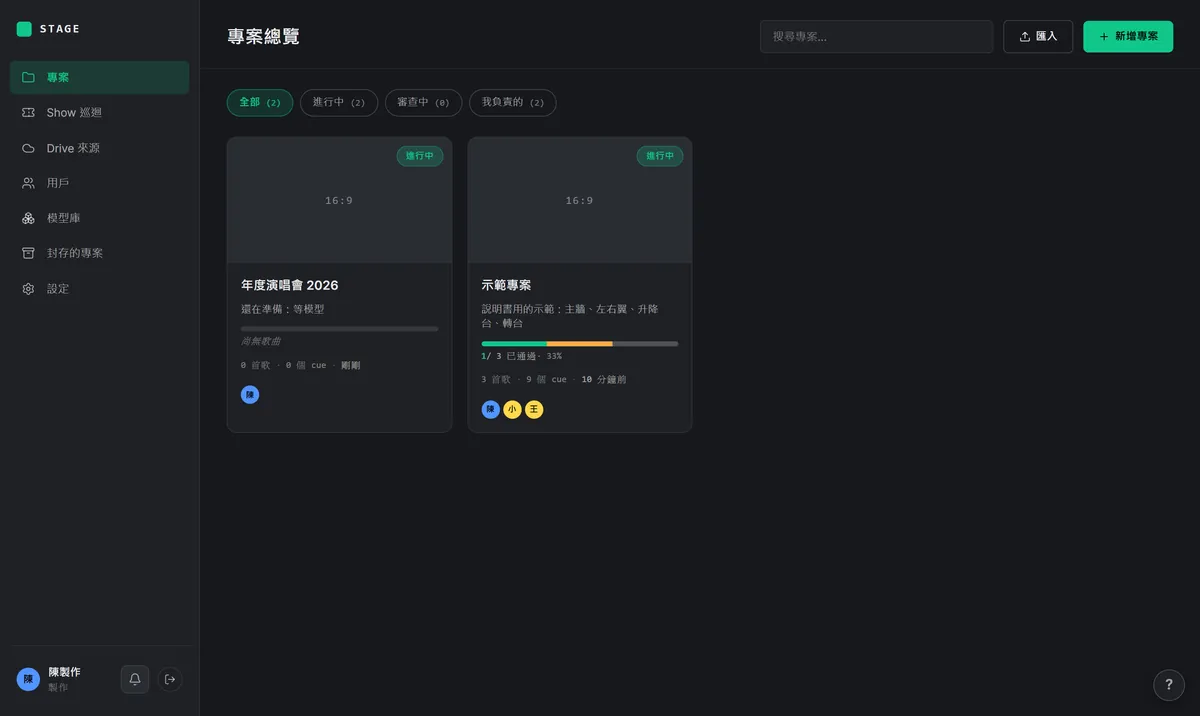
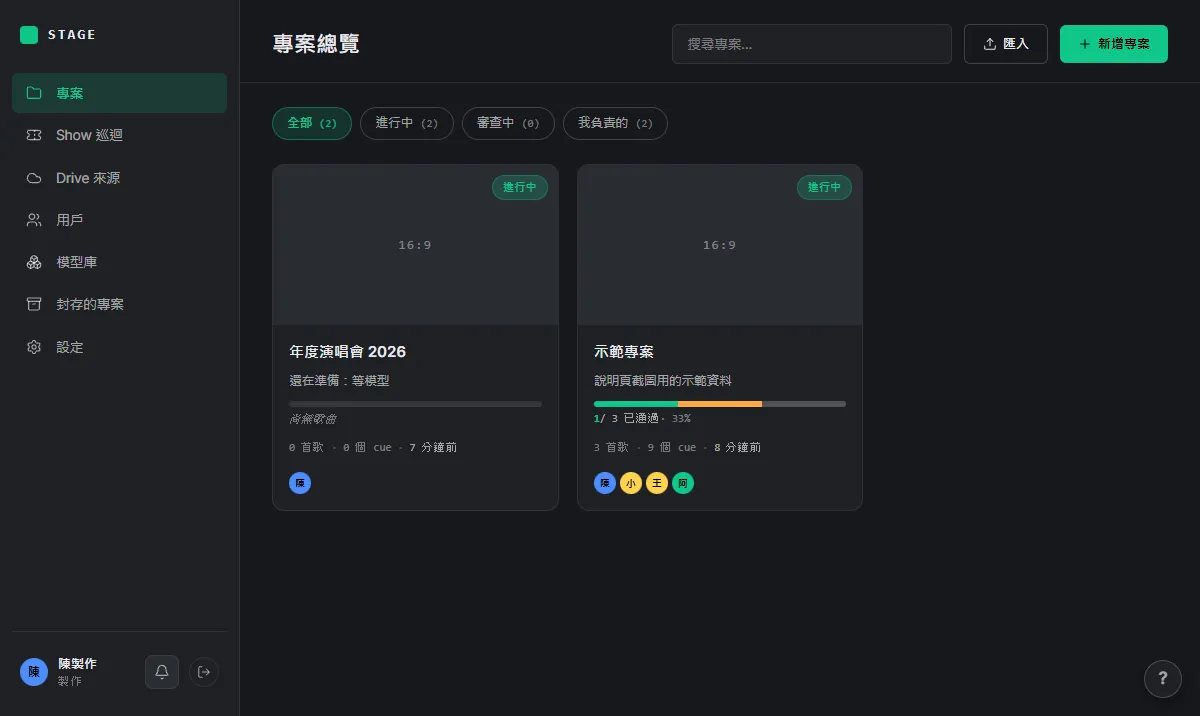
docs(說明頁): 重拍畫面已經變了的截圖（編輯頁、cue 清單、專案總覽、專案卡片選單、用戶頁、用其他身分看、成員和邀請連結、分享連結、3D 工具列選單），新補 Cue 庫（這首歌的 cue、Cue 庫分頁、還沒存的改動）、成員視窗、修改我的登入碼、LED 版型編輯器（箱體網格）、自動貼 UV（每塊各自選）的圖；圖都是本機示範資料拍的，編號框座標和圖說跟著更新

diff --git a/web/src/pages/helpFigures.ts b/web/src/pages/helpFigures.ts
@@ -63,9 +63,9 @@ export const FIGS = {
     alt: '專案總覽：專案卡片、左邊選單、新增專案按鈕',
     caption: '專案總覽：① 新增專案 ② 專案卡片（點進去編輯）③ 左邊選單：專案、用戶、封存的專案、設定…',
     boxes: [
-      { x: 90.07, y: 2.6, w: 7.92, h: 5.06, n: 1 },
-      { x: 18.68, y: 18.72, w: 19.2, h: 42.04, n: 2 },
-      { x: 0.69, y: 8.26, w: 15.21, h: 79.3, n: 3, dashed: true },
+      { x: 88.17, y: 3.26, w: 9.33, h: 5.8, n: 1 },
+      { x: 48.05, y: 22.91, w: 23.89, h: 48.48, n: 2 },
+      { x: 1, y: 10.2, w: 17.92, h: 74.58, n: 3, dashed: true },
     ],
   }),
   newProject: fig({
@@ -109,19 +109,19 @@ export const FIGS = {
     ],
   }),
   projectCardMenu: fig({
-    src: '/help/producer/project-card-menu.webp', w: 580, h: 750, width: 290,
-    alt: '專案卡片的更多動作：複製專案、匯出 JSON、編輯標籤、封存',
-    caption: '專案卡片右上角的「⋯」',
+    src: '/help/producer/project-card-menu.webp', w: 588, h: 710, width: 290,
+    alt: '專案卡片的更多動作：改名稱和說明、複製專案、匯出 JSON、編輯標籤、封存，下面是用其他身分看',
+    caption: '專案卡片右上角的「⋯」：改名稱和說明、複製專案、匯出 JSON、編輯標籤、封存，往下還有「用其他身分看」',
   }),
   editorOverview: fig({
     src: '/help/producer/editor-overview.webp', w: 1200, h: 716, width: 820,
     alt: '專案編輯頁：左邊歌曲、中間 3D 舞台、右邊 Cue / 物件狀態 / 機關 / 物件分頁',
-    caption: '編輯頁：① 歌曲 ② 3D 工具列 ③ 右邊的分頁：Cue、物件狀態、機關、物件 ④ 復原 / 重做',
+    caption: '編輯頁：① 歌曲 ② 3D 工具列 ③ 右邊的分頁：Cue、物件狀態、機關、物件 ④ 復原 / 重做。左右兩欄的邊緣可以拖寬（點兩下回到預設寬度）',
     boxes: [
-      { x: 0, y: 5.58, w: 19.44, h: 94.42, n: 1, dashed: true },
-      { x: 20.96, y: 6.51, w: 53.9, h: 5.58, n: 2 },
-      { x: 76.39, y: 5.58, w: 23.61, h: 94.42, n: 3, dashed: true },
-      { x: 29.06, y: 0.64, w: 10.33, h: 4.19, n: 4 },
+      { x: 0, y: 6.7, w: 23.33, h: 93.3, n: 1, dashed: true },
+      { x: 24.79, y: 7.82, w: 45.42, h: 6.7, n: 2 },
+      { x: 71.67, y: 6.7, w: 28.33, h: 93.3, n: 3, dashed: true },
+      { x: 32.93, y: 0.91, w: 11.9, h: 4.75, n: 4 },
     ],
   }),
   uploadModel: fig({
@@ -192,19 +192,54 @@ export const FIGS = {
   }),
   cueList: fig({
     src: '/help/producer/cue-list.webp', w: 680, h: 960, width: 340,
-    alt: 'Cue 分頁：cue 清單，第 2 個 cue 最右邊的「⋯」打開的選單',
-    caption: '① 轉場秒數（0 寫「直接切換」）② 每個 cue 最右邊的「⋯」③ 存成常用擺位 ④ 重置這個 cue',
+    alt: 'Cue 分頁：cue 清單（每個 cue 左邊有拖拉的把手），第 2 個 cue 最右邊的「⋯」打開的選單',
+    caption: '① 轉場秒數（0 寫「直接切換」）② 每個 cue 最右邊的「⋯」③ 存成常用擺位 ④ 重置這個 cue ⑤ 按住左邊的把手上下拖拉，可以改順序',
     boxes: [
-      { x: 14.41, y: 29.01, w: 16.5, h: 4.27, n: 1 },
+      { x: 21.47, y: 28.8, w: 15.9, h: 4.58, n: 1 },
       { x: 87.65, y: 25.78, w: 8.82, h: 6.25, n: 2 },
-      { x: 17.06, y: 61.04, w: 77.05, h: 8.75, n: 3 },
-      { x: 17.06, y: 77.71, w: 77.05, h: 8.75, n: 4 },
+      { x: 26.18, y: 61.98, w: 66.47, h: 6.88, n: 3 },
+      { x: 26.18, y: 78.65, w: 66.47, h: 6.88, n: 4 },
+      { x: 2.94, y: 25.36, w: 7.65, h: 7.08, n: 5 },
     ],
   }),
   cueAdd: fig({
     src: '/help/producer/cue-add.webp', w: 680, h: 596, width: 340,
     alt: '新增 cue 旁邊小箭頭的選單：空白 cue、沿用目前的 cue、從目前 3D 狀態建立、從常用擺位建立',
     caption: '「新增 cue」旁邊的小箭頭：四種新增方法',
+  }),
+  libSongCues: fig({
+    src: '/help/producer/lib-song-cues.webp', w: 680, h: 1200, width: 340,
+    alt: 'Cue 庫專案的 Cue 分頁：上面寫正在編輯哪個 cue，下面是這首歌的 cue 清單，每列有時間、編號、轉場',
+    caption: 'Cue 庫專案的「Cue」分頁：① 正在編輯哪個 cue ② 覆蓋這個 cue ③ 另存成新的 cue ④ 每一列：時間、編號、轉場（「用 Cue 庫的」或「這首歌另外設」）⑤ 從 Cue 庫加 cue',
+    boxes: [
+      { x: 2.06, y: 11.75, w: 97.65, h: 20.46, n: 1 },
+      { x: 2.94, y: 19.71, w: 31.4, h: 6, n: 2 },
+      { x: 34.34, y: 19.71, w: 38.33, h: 6, n: 3 },
+      { x: 2.06, y: 56.13, w: 96.18, h: 9.67, n: 4 },
+      { x: 6.47, y: 86.79, w: 45.97, h: 7.25, n: 5 },
+    ],
+  }),
+  libTab: fig({
+    src: '/help/producer/lib-tab.webp', w: 680, h: 1336, width: 340,
+    alt: 'Cue 庫分頁：搜尋、每個 cue 的編號、名稱、幾首歌在用、預設轉場秒數',
+    caption: '「Cue 庫」分頁：① 搜尋編號或名稱 ② 預設轉場秒數（點一下就能改）③ 每個 cue 的「⋯」（加到這首歌…）④ 另存成新的 cue',
+    boxes: [
+      { x: 12.06, y: 31.51, w: 82.06, h: 4.12, n: 1 },
+      { x: 36.31, y: 65.19, w: 16.51, h: 3.78, n: 2 },
+      { x: 84.12, y: 62.12, w: 11.76, h: 5.99, n: 3 },
+      { x: 2.94, y: 93.86, w: 38.33, h: 5.39, n: 4 },
+    ],
+  }),
+  lookDraft: fig({
+    src: '/help/producer/look-draft.webp', w: 680, h: 500, width: 340,
+    alt: '改動還沒存的時候，Cue 分頁上方的長條：正在編輯 Cue 2，還沒存的改動：1 個物件，旁邊有覆蓋、另存成新的 cue、放棄',
+    caption: '動了物件之後：① 長條寫著「還沒存的改動」② 覆蓋這個 cue ③ 另存成新的 cue ④ 放棄這些改動',
+    boxes: [
+      { x: 2.65, y: 37.3, w: 97.06, h: 8.8, n: 1 },
+      { x: 2.94, y: 47.3, w: 30.81, h: 14.4, n: 2 },
+      { x: 33.75, y: 47.3, w: 38.33, h: 14.4, n: 3 },
+      { x: 72.09, y: 47.3, w: 20.59, h: 14.4, n: 4 },
+    ],
   }),
   cueMeta: fig({
     src: '/help/producer/cue-meta.webp', w: 630, h: 596, width: 320,
@@ -231,14 +266,14 @@ export const FIGS = {
     caption: '升降台在這個 cue 升到「全開」：帶動的物件（前緣 LED、主唱）一起上去',
   }),
   ledMenu: fig({
-    src: '/help/producer/led-menu.webp', w: 1000, h: 390, width: 600,
-    alt: '3D 工具列的更多選單：LED 對位圖、LED 顯示測試圖、設定畫布大小',
-    caption: '① 工具列最右邊「⋯」② 下載對位圖 ③ LED 顯示測試圖 ④ 設定畫布大小（製作才有）',
+    src: '/help/producer/led-menu.webp', w: 2076, h: 796, width: 680,
+    alt: '3D 工具列的更多選單：LED 對位圖（下載對位圖、AE 合成腳本、位置表）、LED 顯示測試圖、設定畫布大小、AE 即時',
+    caption: '① 工具列最右邊「⋯」② 下載對位圖（旁邊還有 AE 合成腳本、位置表）③ LED 顯示測試圖 ④ 設定畫布大小（製作才有）',
     boxes: [
-      { x: 93.49, y: 4.44, w: 4.79, h: 11.6, n: 1 },
-      { x: 64.09, y: 30.89, w: 34.03, h: 11.6, n: 2 },
-      { x: 64.09, y: 63.65, w: 34.03, h: 11.6, n: 3 },
-      { x: 64.09, y: 74.57, w: 34.03, h: 11.6, n: 4 },
+      { x: 94.99, y: 3.01, w: 3.66, h: 9.03, n: 1 },
+      { x: 76.4, y: 22.62, w: 21.77, h: 8.72, n: 2 },
+      { x: 76.4, y: 54.74, w: 19.46, h: 8.72, n: 3 },
+      { x: 76.4, y: 62.77, w: 21.77, h: 8.72, n: 4 },
     ],
   }),
   ledCanvas: fig({
@@ -246,6 +281,26 @@ export const FIGS = {
     alt: 'LED 畫布大小對話框：AE 合成的寬 × 高',
     caption: '① 寫成「寬 × 高」，例：10496 × 5120',
     boxes: [{ x: 3.64, y: 30.65, w: 92.72, h: 19.96, n: 1 }],
+  }),
+  ledTemplateEditor: fig({
+    src: '/help/producer/led-template-editor.webp', w: 1440, h: 468, width: 820,
+    alt: 'LED 版型編輯器：左邊是版型畫布，右邊是螢幕清單，上面有下載模板圖、下載每塊 LED 的圖 + AE',
+    caption: '版型編輯器：① 預設箱體：畫布上一格網格 = 一片 LED 箱體 ② 把螢幕加進版型 ③ 畫布剛好包住螢幕 ④ 下載每塊 LED 的圖 + AE（zip）',
+    boxes: [
+      { x: 32.03, y: 23.4, w: 6.67, h: 13.35, n: 1 },
+      { x: 92.99, y: 41.24, w: 5.9, h: 8.97, n: 2 },
+      { x: 40.57, y: 26.82, w: 10.28, h: 9.72, n: 3 },
+      { x: 57.95, y: 1.28, w: 14.09, h: 9.72, n: 4 },
+    ],
+  }),
+  autoUvPieces: fig({
+    src: '/help/producer/auto-uv-pieces.webp', w: 1440, h: 613, width: 820,
+    alt: '自動貼 UV 的第 1 步選螢幕：每個物件一排選項，一個物件裡有好幾塊 LED 時，下面每一塊可以各自選',
+    caption: '第 1 步「選螢幕」：① 物件那一列的選項 = 一次設這個物件的全部塊 ② 一個物件裡有好幾塊 LED（例如曲線升降台的正面、左側、右側）時，每一塊可以各自選「自動貼」「保留原本 UV」「不放進畫布」；這裡左側選了不放進畫布，其他塊照常貼',
+    boxes: [
+      { x: 17.85, y: 65.33, w: 16.28, h: 5.87, n: 1 },
+      { x: 1.53, y: 72.39, w: 96.94, h: 20.92, n: 2 },
+    ],
   }),
   homeView: fig({
     src: '/help/producer/home-view.webp', w: 900, h: 714, width: 450,
@@ -263,15 +318,16 @@ export const FIGS = {
     caption: '現場模式的「設定」',
   }),
   shareLinks: fig({
-    src: '/help/producer/share-links.webp', w: 1000, h: 702, width: 560,
-    alt: '公開分享連結對話框：範圍、密碼、有效期、好讀網址、已建立的連結',
-    caption: '① 密碼（可選）② 有效期 ③ 好讀網址名稱 ④ 建立 ⑤ 已建立的連結：複製、打開、改網址、刪除',
+    src: '/help/producer/share-links.webp', w: 1520, h: 2070, width: 560,
+    alt: '公開分享連結視窗：範圍、密碼、有效期、名稱、好讀網址名稱、允許留言、浮水印、禁止下載、已建立的連結',
+    caption: '① 密碼（可選）② 有效期 ③ 好讀網址名稱 ④ 建立 ⑤ 已建立的連結：複製、打開、改網址、刪除 ⑥ 允許看的人留言、浮水印、禁止下載（看下面說明）',
     boxes: [
-      { x: 38.8, y: 30.5, w: 33.6, h: 7, n: 1 },
-      { x: 73.2, y: 30.5, w: 22.6, h: 7, n: 2 },
-      { x: 4, y: 42.5, w: 92, h: 7.5, n: 3 },
-      { x: 4.2, y: 59.8, w: 14.3, h: 6.4, n: 4 },
-      { x: 2.8, y: 79.5, w: 94.4, h: 17.5, n: 5 },
+      { x: 38.42, y: 17.49, w: 34.21, h: 3.94, n: 1 },
+      { x: 72.89, y: 17.49, w: 23.16, h: 3.94, n: 2 },
+      { x: 3.95, y: 32.83, w: 92.11, h: 3.13, n: 3 },
+      { x: 3.95, y: 63.38, w: 14.61, h: 3.48, n: 4 },
+      { x: 3.95, y: 86.76, w: 92.11, h: 11.98, n: 5 },
+      { x: 2.24, y: 14.25, w: 95.53, h: 53.86, n: 6 },
     ],
   }),
   viewAsMenu: fig({
@@ -279,46 +335,67 @@ export const FIGS = {
     alt: '編輯頁上方的「用其他身分看」：導演畫面、動畫師畫面、動畫師「小明」的畫面、客戶畫面（分享連結）',
     caption: '① 編輯頁上方的「用其他身分看」② 導演、動畫師、客戶的畫面（都開新分頁、只能看）',
     boxes: [
-      { x: 67.79, y: 1.72, w: 21.32, h: 11.25, n: 1 },
-      { x: 44.82, y: 13.13, w: 44.29, h: 68.75, n: 2, dashed: true },
+      { x: 68.5, y: 1.72, w: 21.32, h: 11.25, n: 1 },
+      { x: 46.07, y: 14.06, w: 43.21, h: 66.88, n: 2, dashed: true },
+    ],
+  }),
+  membersPanel: fig({
+    src: '/help/producer/members-panel.webp', w: 960, h: 1352, width: 440,
+    alt: '成員視窗：這個專案的製作、導演、動畫師，每個人可以改角色或移出專案，下面可以用名字找現有用戶加進來',
+    caption: '編輯頁上方的「成員」：① 改這個人在專案裡的角色 ② 移出專案 ③ 用名字找現有的用戶加進來',
+    boxes: [
+      { x: 69.38, y: 51.42, w: 16.25, h: 5.03, n: 1 },
+      { x: 86.46, y: 51.42, w: 7.08, h: 5.03, n: 2 },
+      { x: 4.17, y: 86.61, w: 91.67, h: 6.84, n: 3 },
     ],
   }),
   inviteForm: fig({
-    src: '/help/producer/invite-form.webp', w: 1000, h: 1152, width: 500,
-    alt: '邀請連結對話框：邀請誰、角色、有效期限',
-    caption: '① 對方的名字 ② 角色 ③ 有效期限 ④ 建立邀請連結',
+    src: '/help/producer/invite-form.webp', w: 960, h: 1352, width: 480,
+    alt: '成員視窗最下面的邀請連結：邀請誰、在這個專案的角色（製作、導演、動畫師）、有效期限、建立邀請連結',
+    caption: '成員視窗最下面的「邀請連結」：① 對方的名字 ② 角色：製作、導演或動畫師 ③ 有效期限 ④ 建立邀請連結',
     boxes: [
-      { x: 3.57, y: 26.55, w: 92.86, h: 7.17, n: 1 },
-      { x: 3.57, y: 38.99, w: 92.86, h: 12.15, n: 2 },
-      { x: 3.57, y: 56.41, w: 92.86, h: 6.82, n: 3 },
-      { x: 71.43, y: 68.38, w: 25, h: 6.74, n: 4 },
+      { x: 4.17, y: 14.48, w: 91.67, h: 6.84, n: 1 },
+      { x: 4.17, y: 26.35, w: 91.66, h: 13.97, n: 2 },
+      { x: 4.17, y: 45.35, w: 25.21, h: 6.84, n: 3 },
+      { x: 66.67, y: 57.11, w: 29.17, h: 6.43, n: 4 },
     ],
   }),
   inviteResult: fig({
-    src: '/help/producer/invite-result.webp', w: 1000, h: 1252, width: 500,
-    alt: '邀請連結建好了：可以直接貼到 LINE / 微信的訊息',
+    src: '/help/producer/invite-result.webp', w: 960, h: 1352, width: 480,
+    alt: '邀請連結建好了：寫好的訊息可以直接貼到 LINE / 微信，下面是還沒用的邀請連結',
     caption: '① 寫好的訊息 ② 複製訊息 ③ 還沒用的邀請連結（可以撤銷）',
     boxes: [
-      { x: 6.43, y: 18.72, w: 87.14, h: 13.69, n: 1 },
-      { x: 6.43, y: 33.42, w: 20, h: 5.92, n: 2 },
-      { x: 3.75, y: 66.65, w: 92.5, h: 20.01, n: 3 },
+      { x: 7.29, y: 15.64, w: 85.42, h: 14.5, n: 1 },
+      { x: 7.29, y: 30.88, w: 23.75, h: 6.43, n: 2 },
+      { x: 4.17, y: 65.35, w: 91.67, h: 30.21, n: 3 },
     ],
   }),
   users: fig({
-    src: '/help/producer/users.webp', w: 1200, h: 892, width: 820,
-    alt: '用戶頁：每個人的角色、登入碼、可看的專案',
-    caption: '① 邀請連結 ② 新增用戶 ③ 登入碼（只在建立時顯示，忘記了按「重設」）④ 指派專案、邀請連結、停用、刪除',
+    src: '/help/producer/users.webp', w: 1200, h: 980, width: 820,
+    alt: '用戶頁：上面搜尋名字、用專案篩選，下面每個人的角色、登入碼、可看的專案',
+    caption: '① 邀請連結 ② 新增用戶 ③ 登入碼（只在建立時顯示，忘記了按「重設」）④ 指派專案、邀請連結、停用、刪除 ⑤ 用名字搜尋、用專案篩選',
     boxes: [
-      { x: 77.92, y: 2.35, w: 9.67, h: 5.1, n: 1 },
-      { x: 88.08, y: 2.47, w: 9.5, h: 4.88, n: 2 },
-      { x: 8, y: 22.26, w: 81.81, h: 3.73, n: 3 },
-      { x: 88.56, y: 35.52, w: 7.6, h: 15.14, n: 4 },
+      { x: 78, y: 2.24, w: 9.5, h: 4.44, n: 1 },
+      { x: 88.17, y: 2.35, w: 9.33, h: 4.23, n: 2 },
+      { x: 8.08, y: 28.75, w: 81.65, h: 3.19, n: 3 },
+      { x: 88.65, y: 40.82, w: 7.44, h: 13.57, n: 4 },
+      { x: 2.33, y: 18.57, w: 45.17, h: 4.23, n: 5 },
     ],
   }),
   loginCode: fig({
     src: '/help/producer/login-code.webp', w: 900, h: 904, width: 450,
     alt: '新的登入碼：只顯示這一次，可以複製或複製訊息',
     caption: '新用戶的登入碼：只顯示這一次，「複製訊息」貼給對方',
+  }),
+  changeLoginCode: fig({
+    src: '/help/producer/change-login-code.webp', w: 960, h: 810, width: 400,
+    alt: '設定頁的「修改我的登入碼」視窗：輸入現在的登入碼，選自動產生或自己設定',
+    caption: '設定 →「修改我的登入碼」：① 輸入現在的登入碼 ② 自動產生，或自己設定一組（6～32 個字）③ 按「修改登入碼」',
+    boxes: [
+      { x: 4.17, y: 36.73, w: 91.67, h: 11.42, n: 1 },
+      { x: 4.79, y: 63.02, w: 90.42, h: 13.9, n: 2 },
+      { x: 73.54, y: 83.83, w: 22.29, h: 11.23, n: 3 },
+    ],
   }),
   systemStatus: fig({
     src: '/help/producer/system-status.webp', w: 1000, h: 330, width: 560,

diff --git a/web/src/pages/Help.tsx b/web/src/pages/Help.tsx
@@ -1231,6 +1231,11 @@ function ProducerChapter() {
 
         <Section id={A.prodCueLibrary} level={3} title="Cue 庫（cue 的編號和另存）">
           <p>Cue 庫是這個專案所有「舞台畫面」的總清單。每個 cue 有自己的編號和名稱，每首歌只是從 Cue 庫裡選 cue、設時間。只有開了 Cue 庫的專案才有，沒有開的專案照原本的方式用。</p>
+          <FigRow>
+            <F k="libSongCues" />
+            <F k="libTab" />
+            <F k="lookDraft" />
+          </FigRow>
           <ul className="help-list">
             <li><strong>編號自己打</strong>：編號是文字，可以寫「12」「3-1」「301」「2.5」，最多 16 個字，同一個專案不能重複。清單照編號的數字大小排：1、2、2.5、3、3-1、12、301。</li>
             <li><strong>每個 cue 是獨立的一份</strong>：改一個 cue 不會偷偷改到別的 cue。想要「差不多但有一點不一樣」，就另存成新的 cue。</li>
@@ -1435,6 +1440,7 @@ function ProducerChapter() {
 
       <Section id={A.prodAutoUv} title="自動貼 UV（不用在 C4D 手動展開）">
         <p>客戶的舞台模型來了，以前要在 C4D 把每一塊 LED 的 UV 手動展開、再手繪對位圖。現在在網頁裡選螢幕、填解析度，系統幫你展開 UV、排好整張畫布，存成<strong>新的模型版本</strong>；對位圖、AE 合成腳本、座標表都會跟著變成新的版面。只有製作能用，手機上請改用電腦（iPad 橫放可以）。</p>
+        <F k="autoUvPieces" />
         <ul>
           <li>編輯專案上方列按「<Ui>自動貼 UV</Ui>」（太窄會收進「<Ui>⋯</Ui>」），頁面下方展開面板，分四步。</li>
           <li><strong>1 選螢幕</strong>：每塊 LED 螢幕選一種：「<Ui>自動貼</Ui>」「<Ui>保留原本 UV</Ui>」「<Ui>不放進畫布</Ui>」（說明在這一條最後面）。支援<strong>平面</strong>（牆、地屏）、<strong>弧面</strong>（圓柱的一段，例如小半圓、彎的牆）、<strong>整圈 360 度的圓柱</strong>、<strong>沿一個方向擠出來的曲面</strong>（波浪、折角、不規則的彎：側面形狀照弧長拉直，不拉伸）和<strong>其他自由曲面</strong>（圓錐、一塊球面…）。系統會自動辨識是哪一種，弧面會寫「凸（外面看）／凹（裡面看）」和角度；每塊都顯示「<Ui>變形</Ui>」百分比（0.5% 以下綠色、5% 以下黃色「輕微拉伸」、超過紅色「會變形」）。辨識錯了，用每一列的「<Ui>類型</Ui>」下拉選單手動指定「<Ui>平面</Ui>」「<Ui>弧面</Ui>」或「<Ui>自由曲面</Ui>」（預設「<Ui>自動辨識</Ui>」）；指定的話，變形多少照實顯示。<strong>曲面（波浪、折角、自由曲面）選「<Ui>自動貼</Ui>」就是照形狀展開</strong>：沿直線擠出的（像 LED_Sky 那種波浪）展開後 0 變形，預設就是自動貼；真的彎得不能攤平的（馬鞍面、一塊球面）會有拉伸，變形超過 5%（紅色）時預設是保留原本 UV，由你決定要不要改選「<Ui>自動貼</Ui>」。整個封閉的球、有破洞的網格、面的方向不一致的，攤不平，會寫出原因和「硬貼會變形約 N%」，並<strong>保留原本的 UV</strong>。已經在「版型」裡手動切成幾塊的先不處理。<strong>整圈 360 度的圓柱</strong>畫面一定要在某個地方切開才能攤平：接縫預設在<strong>背對觀眾的那一側</strong>（舞台後方，觀眾看不到），那一列多一個「<Ui>接縫位置</Ui>」，可以往右 15°、往左 15°、直接填角度（往觀眾的右手邊為正）或按「<Ui>回到背面</Ui>」；接縫會貼到最近的一排頂點上，所以實際角度會寫在旁邊，接縫上的頂點會自動複製成兩個（形狀一模一樣，只有 UV 差一整圈）。選「<Ui>保留原本 UV</Ui>」的、攤不平的，會<strong>保留原本的 UV，整片搬到新位置</strong>（大小、方向、每個點的對應都不變，只是畫布重排了）。一個物件裡有好幾片分開的螢幕，每一片各自當一塊、分開排。<strong>選「<Ui>不放進畫布</Ui>」的螢幕（例如動畫師不會做內容的提詞 LED）完全不進這次的排版</strong>：不算進畫布大小，對位圖、AE 合成腳本、座標表、「舊版面」都沒有它。套用的時候它的<strong>類型會從「LED 面板」改成「其他」</strong>（變成一般物件，不再有影片），那一列和套用頁都會寫出來。要恢復：到「<Ui>物件</Ui>」分頁把類型改回「LED 面板」，再重新自動貼 UV；在「<Ui>歷史版本</Ui>」換回套用前的舊版，類型也會一起改回 LED 面板。</li>
@@ -1470,6 +1476,7 @@ function ProducerChapter() {
           <li>按「<Ui>畫布剛好包住螢幕</Ui>」，畫布寬高就會是動畫師要輸出的影片大小，按「<Ui>儲存</Ui>」。</li>
           <li>歌單上每首歌多一個「<Ui>LED 版型</Ui>」下拉選單（至少有一個版型才會出現），選這首歌要用哪個；沒選 =「<Ui>全部</Ui>」（整張畫布，跟以前一樣）。</li>
         </ol>
+        <F k="ledTemplateEditor" />
         <ul className="help-list">
           <li><strong>3D 上的測試圖</strong>：版型編輯器開著的時候，3D 的 LED 顯示這個版型的測試圖：每塊螢幕一個不一樣的顏色，寫著名字、真實點數、一支指著螢幕上方的箭頭、像素格，左上角有個小三角形（鏡像了看得出來）。放錯位置、轉錯方向一眼就看得出來；轉過 90° 的螢幕，字在 3D 上仍然是正的。測試圖只在編輯版型時出現，關掉編輯器就回到原本的畫面。</li>
           <li><strong>框裡的對位圖內容</strong>：版型畫布上每塊螢幕的框裡，預設會畫出這塊螢幕在整張畫布上的測試圖（名字、位置大小、格線、彩條），照你設的轉動、翻轉和縮放擺進來，跟貼回 3D 之後那塊 LED 上看到的一樣，所以排的時候就看得出方向對不對。不想看就按畫布上方的「<Ui>對位圖內容</Ui>」關掉。</li>
@@ -1567,6 +1574,7 @@ function ProducerChapter() {
           <li>這個專案的<strong>製作</strong>可以編輯這個專案（模型、歌單、cue、機關、版型、分享），也可以管理它的成員；看不到別的專案，也不能管全站用戶、改 3D 檢視設定和 Drive 來源、封存或複製專案。想讓專案經理幫忙調整專案，把他加成這個專案的製作就可以。</li>
           <li>全站的用戶頁可以用名字搜尋，也可以選一個專案只看那個專案的人。</li>
         </ul>
+        <F k="membersPanel" />
         <ol className="help-steps">
           <li>編輯頁上方按「<Ui>成員</Ui>」，往下找「邀請連結」（或左邊「<Ui>用戶</Ui>」→「<Ui>邀請連結</Ui>」，可以選專案）。</li>
           <li><strong>邀請誰</strong>：「<Ui>新的人</Ui>」寫名字；「<Ui>已經有帳號的人</Ui>」用名字找（例如他換了手機、忘記登入碼）。</li>
@@ -1619,6 +1627,7 @@ function ProducerChapter() {
           <li><strong>停用</strong>：不能登入，資料都留著，之後可以「啟用」。垃圾桶是<strong>永久刪除</strong>，救不回來。</li>
         </ul>
         <F k="loginCode" />
+        <F k="changeLoginCode" />
       </Section>
 
       <Section id={A.prodSystem} title="系統狀態（備份和錯誤）">
